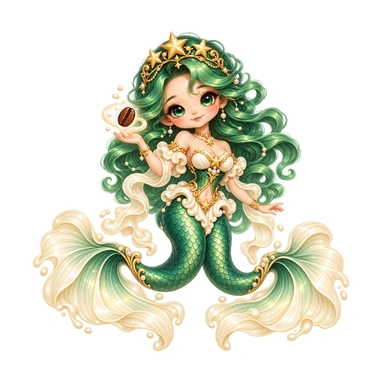
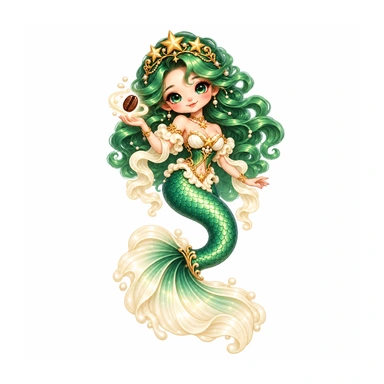
Give sirens one tail and distinctive adult queen outfits

diff --git a/docs/emerald-siren.md b/docs/emerald-siren.md
@@ -14,9 +14,9 @@ Later forms are evolution-only: trail encounters, coffee totals, and riddles can
 
 ## Artwork
 
-Five individual illustrations generated with the built-in image generation tool, using the preceding tier as a style and identity reference. Shared art direction: a friendly emerald-haired, green-eyed, twin-tailed coffee mermaid with a gold star crown, cream foam accents, modest cream/emerald bodice, cozy polished chibi game illustration, complete centered silhouette, generous margins, white background, no text, corporate logos, scenery, or frame.
+Five individual illustrations generated with the built-in image generation tool, using the preceding tier as a style and identity reference, then edited individually for single-tail anatomy. Exact final edit prompts are in `docs/emerald-siren-art-prompts.json`. Shared art direction: a friendly emerald-haired, green-eyed, single-tailed coffee mermaid with a gold star crown, cream foam accents, cream/emerald clothing for the early forms, cozy polished fantasy game illustration (chibi proportions only in early tiers), complete centered silhouette, generous margins, white background, no text, corporate logos, scenery, or frame.
 
-Stage prompts add: a baby nestled in a star-emblem coffee cup; a small mermaid holding a bean; a taller mermaid with larger foam fins and a floating bean; a regal guardian with flowing tails and an orbit of beans; and a final queen with a luminous crown and the broadest cream-tipped tails.
+Stage prompts add: a baby nestled in a star-emblem coffee cup; a small mermaid holding a bean; a taller mermaid with larger foam fins and a floating bean; an adult pearl ocean goddess with an ivory halter, asymmetric champagne drape, and gold-and-pearl waist chains; and an adult final queen with a black-and-emerald jeweled outfit, gold body chains, opera gloves, and a dark emerald cape. Every form has exactly one tail.
 
 `node scripts/import-siren-art.mjs <originals-directory>` converts the five ID-named PNGs to complete 384×384 WebP assets in `public/siplings`, using the same sizing and margins as the existing individual-art pipeline. It does not crop a character sheet.
 
